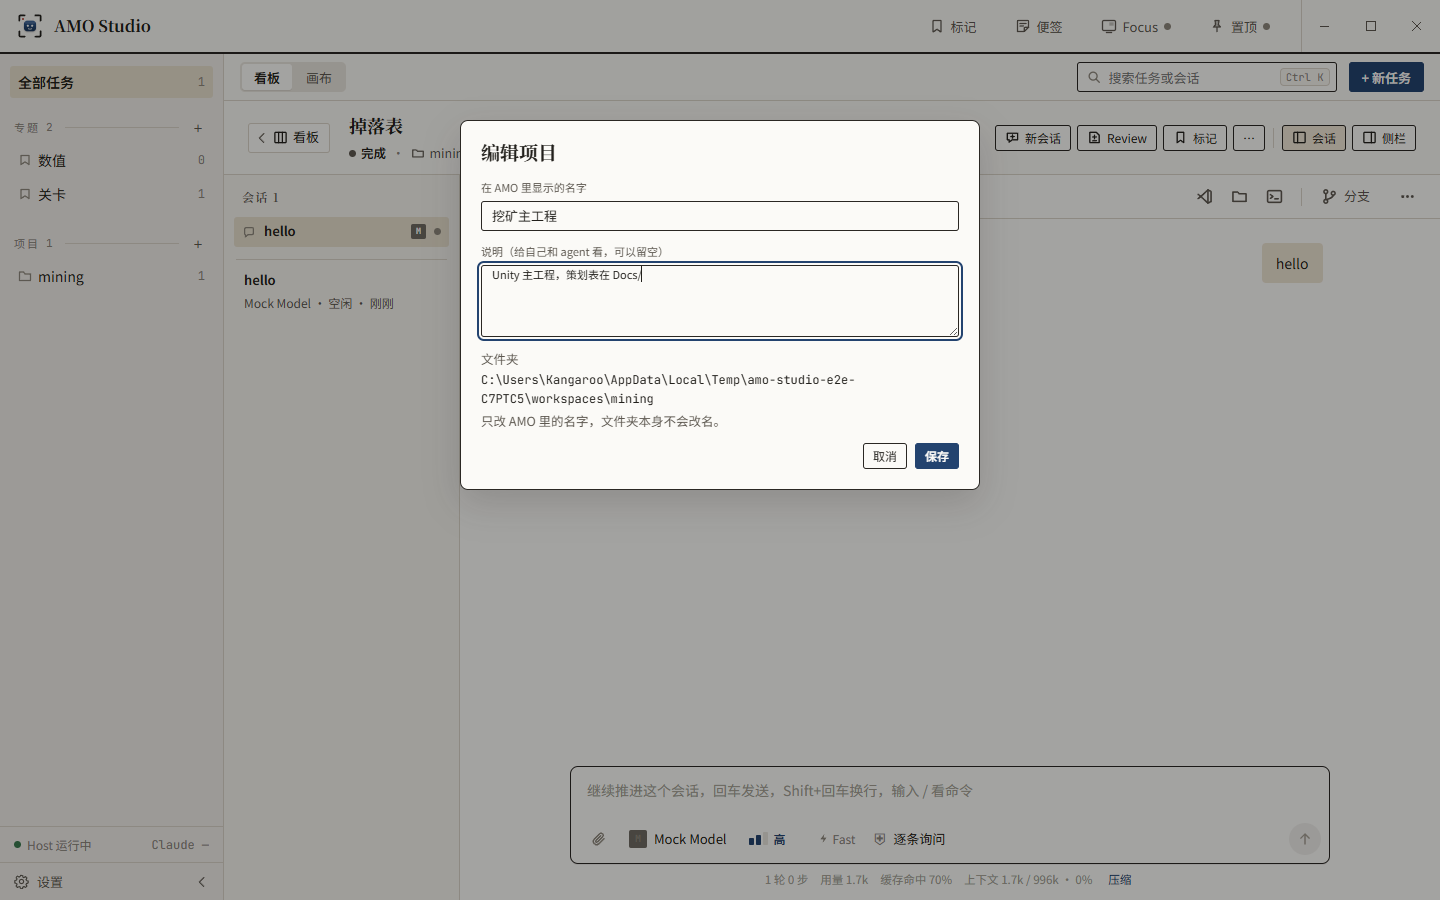
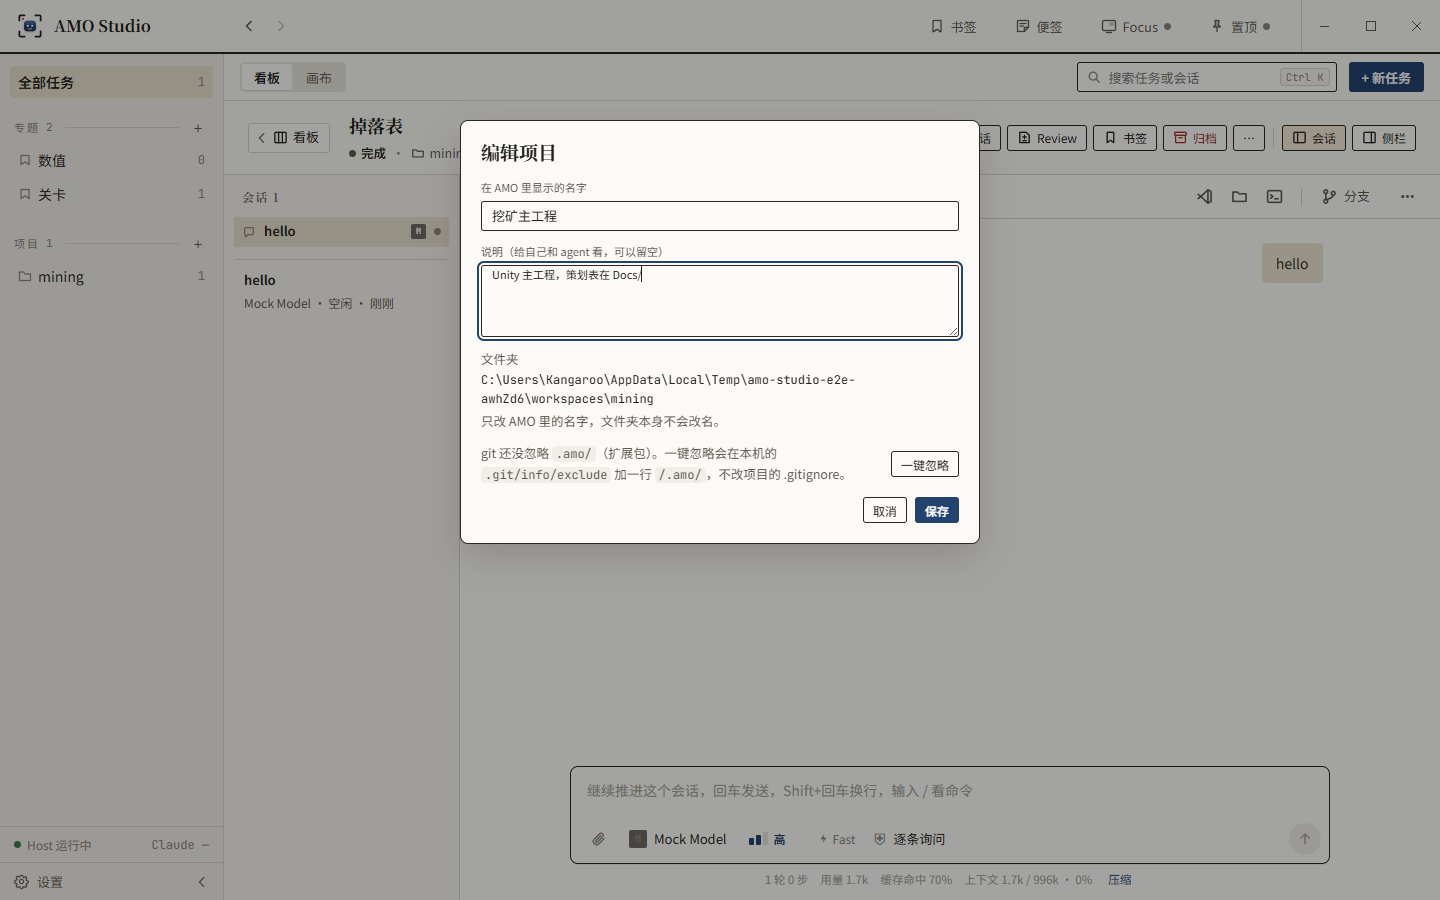
feat(studio): 一键忽略 .amo/ — a project's extension packs left out of git by one line in .git/info/exclude
编辑项目 and the 扩展包 page show whether git ignores the project's .amo/ (and by which rule) and add `/.amo/`
(`/<sub>/.amo/` for a project inside a larger repository) to the repository's own exclude file, which stays on this
machine; the project's .gitignore is not touched. A worktree uses its repository's exclude file; files under .amo/
that git already tracks are counted, since ignoring does not apply to them.

GET / POST /api/workspaces/:id/git-exclude; host features/projects/git-exclude.ts with tests; e2e in task-head.spec;
design/pack-format.md says how to ignore or share packs.

Changed region(s): [[0.3125, 0.4667, 0.6875, 0.6222], [0.6875, 0.1244, 0.7812, 0.1867], [0.8125, 0.1244, 0.8438, 0.1556]]

diff --git a/studio/packages/host/src/features/projects/git-exclude.test.ts b/studio/packages/host/src/features/projects/git-exclude.test.ts
@@ -1,0 +1,71 @@
+import { execFileSync } from "node:child_process";
+import { mkdirSync, mkdtempSync, readFileSync, writeFileSync } from "node:fs";
+import { tmpdir } from "node:os";
+import { join } from "node:path";
+import { afterEach, beforeEach, describe, expect, it } from "vitest";
+import { removeTempDir } from "@amo-studio/testkit";
+import { addGitExclude, readGitExclude } from "./git-exclude.js";
+
+// 一键忽略 .amo/ (2026-10-23): a project's extension packs left out of git by one line in .git/info/exclude.
+
+let root: string;
+const git = (cwd: string, ...args: string[]) => execFileSync("git", ["-c", "user.name=AMO Test", "-c", "user.email=amo@test.invalid", "-c", "commit.gpgsign=false", ...args], { cwd, encoding: "utf8", windowsHide: true });
+const exclude = (repo: string) => readFileSync(join(repo, ".git", "info", "exclude"), "utf8");
+
+beforeEach(() => {
+  root = mkdtempSync(join(tmpdir(), "amo-studio-test-exclude-"));
+});
+
+afterEach(() => removeTempDir(root));
+
+describe("git exclude of .amo/", () => {
+  it("adds /.amo/ once to the repository's exclude file, then reads it as excluded", async () => {
+    const repo = join(root, "game");
+    mkdirSync(repo);
+    git(repo, "init", "-q");
+    expect(await readGitExclude(repo)).toEqual({ git: true, excluded: false, source: null, entry: "/.amo/", tracked: 0 });
+
+    const after = await addGitExclude(repo);
+    expect(after).toMatchObject({ excluded: true, entry: "/.amo/" });
+    expect(after.source).toMatch(/info[\\/]exclude:\d+$/);
+    expect(exclude(repo)).toMatch(/# AMO Studio[^\n]*\n\/\.amo\/\n$/);
+
+    await addGitExclude(repo);
+    expect(exclude(repo).match(/\/\.amo\//g)).toHaveLength(1);
+    // git really leaves the packs out.
+    mkdirSync(join(repo, ".amo", "packs", "demo"), { recursive: true });
+    writeFileSync(join(repo, ".amo", "packs", "demo", "pack.json"), "{}");
+    expect(git(repo, "status", "--porcelain")).toBe("");
+  });
+
+  it("a project inside a larger repository gets its own sub path; a .gitignore rule counts as excluded", async () => {
+    const repo = join(root, "mono");
+    const sub = join(repo, "tools", "game");
+    mkdirSync(sub, { recursive: true });
+    git(repo, "init", "-q");
+    expect((await readGitExclude(sub)).entry).toBe("/tools/game/.amo/");
+    expect((await addGitExclude(sub)).excluded).toBe(true);
+    expect(exclude(repo)).toContain("/tools/game/.amo/\n");
+
+    const other = join(root, "other");
+    mkdirSync(other);
+    git(other, "init", "-q");
+    writeFileSync(join(other, ".gitignore"), "node_modules/\n.amo/\n");
+    const state = await addGitExclude(other);
+    expect(state).toMatchObject({ excluded: true, source: ".gitignore:2" });
+    expect(exclude(other)).not.toContain(".amo");
+  });
+
+  it("counts tracked files under .amo/, and says when the folder is not in git", async () => {
+    const repo = join(root, "shared");
+    mkdirSync(join(repo, ".amo", "packs"), { recursive: true });
+    git(repo, "init", "-q");
+    writeFileSync(join(repo, ".amo", "packs", "README.md"), "team packs\n");
+    git(repo, "add", ".");
+    expect((await readGitExclude(repo)).tracked).toBe(1);
+
+    const plain = join(root, "plain");
+    mkdirSync(plain);
+    expect(await addGitExclude(plain)).toMatchObject({ git: false, excluded: false });
+  });
+});

diff --git a/studio/packages/host/src/features/projects/git-exclude.ts b/studio/packages/host/src/features/projects/git-exclude.ts
@@ -1,0 +1,50 @@
+import { execFile } from "node:child_process";
+import { appendFileSync, existsSync, mkdirSync, readFileSync } from "node:fs";
+import { dirname, resolve } from "node:path";
+import type { GitExcludeState } from "@amo-studio/protocol";
+import { PACKS_DIR } from "@amo-studio/protocol";
+
+// The project's `.amo/` (extension packs, 2026-10-23) left out of git without touching the project's own .gitignore:
+// one line in the repository's `.git/info/exclude`, which stays on this machine. A worktree shares its repository's
+// exclude file (`git rev-parse --git-path`); a project inside a larger repository gets a line with its own sub path.
+
+const AMO_DIR = PACKS_DIR.split("/")[0]!;
+const COMMENT = "# AMO Studio: the project's .amo/ (extension packs)";
+
+/** git's exit code and stdout; no shell, a timeout, prompts off. */
+function run(cwd: string, args: readonly string[]): Promise<{ code: number; out: string }> {
+  return new Promise((done) => {
+    execFile("git", args, { cwd, timeout: 15_000, windowsHide: true, encoding: "utf8", env: { ...process.env, GIT_OPTIONAL_LOCKS: "0", GIT_TERMINAL_PROMPT: "0" } }, (err, stdout) => {
+      const code = err ? (typeof (err as { code?: unknown }).code === "number" ? ((err as { code: number }).code) : -1) : 0;
+      done({ code, out: String(stdout ?? "") });
+    });
+  });
+}
+
+/** Whether git leaves `.amo/` of the folder out, and by which rule. */
+export async function readGitExclude(folder: string): Promise<GitExcludeState> {
+  const top = await run(folder, ["rev-parse", "--show-prefix"]);
+  if (top.code !== 0) return { git: false, excluded: false, source: null, entry: `/${AMO_DIR}/`, tracked: 0 };
+  const entry = `/${top.out.trim()}${AMO_DIR}/`;
+  // --no-index: the rule counts even when files under .amo/ are tracked (they are counted apart).
+  const check = await run(folder, ["check-ignore", "-v", "--no-index", `${AMO_DIR}/`]);
+  const [rule = "", pattern = ""] = /^(.*?:\d+):(.*)\t/.exec(check.out)?.slice(1) ?? [];
+  // -v also prints a matching negation (`!…`), which keeps it in.
+  const excluded = check.code === 0 && !!rule && !pattern.startsWith("!");
+  const tracked = await run(folder, ["ls-files", "--", `${AMO_DIR}/`]);
+  return { git: true, excluded, source: excluded ? rule : null, entry, tracked: tracked.out.split("\n").filter(Boolean).length };
+}
+
+/** Adds the folder's `.amo/` to its repository's `.git/info/exclude` unless git leaves it out already. */
+export async function addGitExclude(folder: string): Promise<GitExcludeState> {
+  const state = await readGitExclude(folder);
+  if (!state.git || state.excluded) return state;
+  const where = await run(folder, ["rev-parse", "--git-path", "info/exclude"]);
+  if (where.code !== 0 || !where.out.trim()) throw new Error("找不到这个仓库的 .git/info/exclude");
+  const file = resolve(folder, where.out.trim());
+  mkdirSync(dirname(file), { recursive: true });
+  const before = existsSync(file) ? readFileSync(file, "utf8") : "";
+  const eol = before.includes("\r\n") ? "\r\n" : "\n";
+  appendFileSync(file, `${before && !before.endsWith("\n") ? eol : ""}${COMMENT}${eol}${state.entry}${eol}`);
+  return readGitExclude(folder);
+}

diff --git a/studio/packages/ui/src/packs/GitExcludeRow.tsx b/studio/packages/ui/src/packs/GitExcludeRow.tsx
@@ -1,0 +1,62 @@
+import { useEffect, useState } from "react";
+import type { GitExcludeState, Workspace } from "@amo-studio/protocol";
+import { call, HostApiError, type HostLink } from "../host/client.js";
+
+/**
+ * 一键忽略 .amo/ (2026-10-23): the project's `.amo/` (extension packs) left out of git by one line in the repository's
+ * `.git/info/exclude`, which stays on this machine; the project's .gitignore is not touched. Shown in 编辑项目 and on
+ * the 扩展包 page; nothing when the folder is not in git (`quietWhenDone` also hides it once git ignores `.amo/`).
+ */
+export function GitExcludeRow({ link, workspace, quietWhenDone = false }: { link: HostLink; workspace: Workspace; quietWhenDone?: boolean }) {
+  const [state, setState] = useState<GitExcludeState | null>(null);
+  const [busy, setBusy] = useState(false);
+  const [error, setError] = useState("");
+
+  useEffect(() => {
+    let live = true;
+    call(link, "GET /api/workspaces/:id/git-exclude", { id: workspace.id })
+      .then((s) => live && setState(s))
+      .catch(() => live && setState(null));
+    return () => {
+      live = false;
+    };
+  }, [link, workspace.id]);
+
+  async function add() {
+    setBusy(true);
+    setError("");
+    try {
+      setState(await call(link, "POST /api/workspaces/:id/git-exclude", { id: workspace.id }));
+    } catch (err) {
+      setError(err instanceof HostApiError ? err.message : String(err));
+    } finally {
+      setBusy(false);
+    }
+  }
+
+  if (!state?.git || (quietWhenDone && state.excluded && !state.tracked)) return null;
+  return (
+    <div className="git-exclude" data-testid="git-exclude">
+      {state.excluded ? (
+        <span className="settings-hint" data-testid="git-exclude-done">
+          git 已忽略 <code>.amo/</code>（{state.source}）
+        </span>
+      ) : (
+        <div className="git-exclude-row">
+          <span className="settings-hint">
+            git 还没忽略 <code>.amo/</code>（扩展包）。一键忽略会在本机的 <code>.git/info/exclude</code> 加一行 <code>{state.entry}</code>，不改项目的 .gitignore。
+          </span>
+          <button type="button" className="btn-ghost small" onClick={() => void add()} disabled={busy} data-testid="git-exclude-add">
+            一键忽略
+          </button>
+        </div>
+      )}
+      {state.tracked > 0 && <span className="settings-hint">.amo/ 下已有 {state.tracked} 个文件被 git 跟踪，忽略对它们不起作用。</span>}
+      {error && (
+        <span className="form-error" role="alert">
+          {error}
+        </span>
+      )}
+    </div>
+  );
+}

diff --git a/studio/packages/protocol/src/api.ts b/studio/packages/protocol/src/api.ts
@@ -277,6 +277,20 @@ export interface CredentialStatus {
   writable: boolean;
 }
 
+/** Whether git leaves a project's `.amo/` (its extension packs) out: by `.git/info/exclude`, a .gitignore or the global one. */
+export interface GitExcludeState {
+  /** The folder is in a git repository. */
+  git: boolean;
+  /** git ignores `.amo/` already. */
+  excluded: boolean;
+  /** The rule that does, as git names it (`.git/info/exclude:12`, `.gitignore:3`). */
+  source: string | null;
+  /** The line 一键忽略 adds to `.git/info/exclude`: `/.amo/`, or `/<sub>/.amo/` for a project inside a larger repository. */
+  entry: string;
+  /** Files under `.amo/` git tracks already; ignoring does not apply to them. */
+  tracked: number;
+}
+
 /** Every REST route as `"METHOD /path"` with its request body and response. `:id` segments are path params. */
 export interface HostRoutes {
   "GET /api/state": { req: void; res: StateSnapshot };
@@ -288,6 +302,10 @@ export interface HostRoutes {
   "POST /api/workspaces/:id/archive": { req: void; res: { workspace: Workspace; tasks: Task[] } };
   /** Restores the project and the tasks that were archived with it. */
   "POST /api/workspaces/:id/unarchive": { req: void; res: { workspace: Workspace; tasks: Task[] } };
+  /** Whether git leaves the project's `.amo/` out. */
+  "GET /api/workspaces/:id/git-exclude": { req: void; res: GitExcludeState };
+  /** Adds `.amo/` to the repository's `.git/info/exclude` (this machine only; the project's .gitignore is not touched). */
+  "POST /api/workspaces/:id/git-exclude": { req: void; res: GitExcludeState };
   "GET /api/settings": { req: void; res: StudioSettings };
   /** The DSH clone DeepSeek · DSH sessions use (stage 17). */
   "GET /api/dsh": { req: void; res: DshStatus };

diff --git a/studio/packages/host/src/features/projects/service.ts b/studio/packages/host/src/features/projects/service.ts
@@ -1,9 +1,10 @@
 import { existsSync, statSync } from "node:fs";
 import { basename, resolve } from "node:path";
-import type { CanvasDoc, Id, Task, Workspace } from "@amo-studio/protocol";
+import type { CanvasDoc, GitExcludeState, Id, Task, Workspace } from "@amo-studio/protocol";
 import { isCommon } from "@amo-studio/protocol";
 import { HostError } from "../../core/shared.js";
 import { Feature } from "../../core/feature.js";
+import { addGitExclude, readGitExclude } from "./git-exclude.js";
 
 /** Projects (workspaces): registering, archiving and removing them. */
 export class ProjectsFeature extends Feature {
@@ -70,6 +71,20 @@ export class ProjectsFeature extends Feature {
     const topicSessions = this.store.listSessions().filter((s) => s.topicId && s.workspaceId === id && !this.store.getTopic(s.topicId)?.archivedAt);
     await this.f.tasks.unarchiveSessions(topicSessions, since);
     return { workspace: this.store.getWorkspace(id)!, tasks };
+  }
+
+  /** Whether git leaves the project's `.amo/` (extension packs) out. */
+  gitExclude(id: Id): Promise<GitExcludeState> {
+    return readGitExclude(this.requireWorkspace(id).path);
+  }
+
+  /** 一键忽略 .amo/: one line in the repository's `.git/info/exclude`, unless git leaves it out already. */
+  async addGitExclude(id: Id): Promise<GitExcludeState> {
+    const ws = this.requireWorkspace(id);
+    if (isCommon(ws)) throw new HostError("conflict", "the common space has no git settings here");
+    const state = await addGitExclude(ws.path);
+    if (!state.git) throw new HostError("bad_request", "这个文件夹不在 git 仓库里");
+    return state;
   }
 
   removeWorkspace(id: Id): void {

diff --git a/studio/e2e/studio/task-head.spec.ts b/studio/e2e/studio/task-head.spec.ts
@@ -1,5 +1,5 @@
 import { execFileSync } from "node:child_process";
-import { writeFileSync } from "node:fs";
+import { readFileSync, writeFileSync } from "node:fs";
 import { join } from "node:path";
 import { expect, test } from "@playwright/test";
 import type { StateSnapshot, Task, Topic, Workspace } from "@amo-studio/protocol";
@@ -68,7 +68,12 @@ test("status, topic and project from the line under the title; the right column 
   const edit = page.getByTestId("edit-project");
   await edit.getByTestId("edit-project-name").fill("挖矿主工程");
   await edit.getByTestId("edit-project-description").fill("Unity 主工程，策划表在 Docs/");
+  // 一键忽略 .amo/ (2026-10-23): one line in the repository's own .git/info/exclude.
+  await expect(edit.getByTestId("git-exclude-add")).toBeVisible();
   await screenshot(app, "stage-14", "S14-E-edit-project", page);
+  await edit.getByTestId("git-exclude-add").click();
+  await expect(edit.getByTestId("git-exclude-done")).toContainText(/info[\\/]exclude:\d+/);
+  expect(readFileSync(join(dir, ".git", "info", "exclude"), "utf8")).toMatch(/\n\/\.amo\/\n$/);
   await edit.getByTestId("edit-project-save").click();
   await expect(page.getByTestId("task-project")).toHaveText("挖矿主工程");
   await expect(page.getByTestId("scope-ws-挖矿主工程")).toBeVisible();

diff --git a/studio/packages/ui/src/settings/settings.css b/studio/packages/ui/src/settings/settings.css
@@ -86,6 +86,12 @@
 .edit-project textarea.field { resize: vertical; min-height: 72px; font: inherit; line-height: var(--lh); }
 .edit-project-folder { display: flex; flex-direction: column; gap: 2px; }
 .edit-project-folder code { font-family: var(--font-code); font-size: 12px; overflow-wrap: anywhere; }
+/* 一键忽略 .amo/ (2026-10-23): in 编辑项目 and on the 扩展包 page. */
+.git-exclude { display: flex; flex-direction: column; gap: 4px; }
+.git-exclude-row { display: flex; align-items: center; gap: 10px; }
+.git-exclude-row .settings-hint { flex: 1; }
+.git-exclude code { font-family: var(--font-code); font-size: 12px; overflow-wrap: anywhere; }
+.packs > .git-exclude { padding: 0 0 10px; }
 
 /* 设置 → 模型 → 渠道 (2026-10-15): one card per channel; the extra part (Claude's sign-in) under a hairline. */
 /* S18: 设置 → 模型 — the channels on the left, the chosen one's page on the right; each side scrolls on its own. */

diff --git a/studio/packages/ui/src/board/EditProjectDialog.tsx b/studio/packages/ui/src/board/EditProjectDialog.tsx
@@ -2,6 +2,7 @@ import { useEffect, useRef, useState } from "react";
 import { createPortal } from "react-dom";
 import type { Workspace } from "@amo-studio/protocol";
 import { call, HostApiError, type HostLink } from "../host/client.js";
+import { GitExcludeRow } from "../packs/GitExcludeRow.js";
 
 /**
  * 编辑项目 (2026-10-14): the name a project has in Studio (two folders with the same name can be told apart; the folder
@@ -81,6 +82,7 @@ export function EditProjectDialog({ link, workspace, onClose }: { link: HostLink
           <code>{workspace.path}</code>
           <span className="settings-hint">只改 AMO 里的名字，文件夹本身不会改名。</span>
         </div>
+        <GitExcludeRow link={link} workspace={workspace} />
         {error && (
           <span className="form-error" role="alert">
             {error}

diff --git a/studio/packages/ui/src/packs/PacksPage.tsx b/studio/packages/ui/src/packs/PacksPage.tsx
@@ -2,6 +2,7 @@ import { useState } from "react";
 import type { ModelProfile, WorkspacePack, Workspace } from "@amo-studio/protocol";
 import type { HostLink } from "../host/client.js";
 import { Markdown } from "../lib/markdown.js";
+import { GitExcludeRow } from "./GitExcludeRow.js";
 import { usePackDoc, usePacks } from "./usePacks.js";
 
 /**
@@ -24,6 +25,7 @@ export function PacksPage({ link, workspace, profiles }: { link: HostLink; works
           重新加载
         </button>
       </div>
+      <GitExcludeRow link={link} workspace={workspace} quietWhenDone />
       {error && <div className="banner">{error}</div>}
       {!loading && !packs.length && !error && (
         <div className="placeholder" data-testid="packs-empty">

diff --git a/studio/packages/host/src/features/projects/routes.ts b/studio/packages/host/src/features/projects/routes.ts
@@ -12,5 +12,7 @@ export function projectsRoutes(service: HostService): Route[] {
     route("PATCH", "/api/workspaces/:id", ({ params, body }) => service.projects.updateWorkspace(params.id!, obj(body))),
     route("POST", "/api/workspaces/:id/archive", ({ params }) => service.projects.archiveWorkspace(params.id!)),
     route("POST", "/api/workspaces/:id/unarchive", ({ params }) => service.projects.unarchiveWorkspace(params.id!)),
+    route("GET", "/api/workspaces/:id/git-exclude", ({ params }) => service.projects.gitExclude(params.id!)),
+    route("POST", "/api/workspaces/:id/git-exclude", ({ params }) => service.projects.addGitExclude(params.id!)),
   ];
 }

diff --git a/studio/design/pack-format.md b/studio/design/pack-format.md
@@ -54,6 +54,8 @@
 - 启动预设只会预填新会话表单，由人确认后才发给模型。
 - 未知的顶层字段给出警告并忽略；其他错误会让这个扩展包显示为"有错误"，不影响同一工作区的其他扩展包。
 
-## 注意：旧 AMO 的 Git exclude
+## 让 git 忽略 `.amo/`
 
-旧 AMO 的"Git exclude"会把 `.amo/` 写进工程的 `.git/info/exclude`。做过这一步的工程里，`.amo/packs/` 默认不会进提交：要提交扩展包，就从 `.git/info/exclude` 删掉 `.amo/` 那一行（或改成 `.amo/*` 加 `!.amo/packs/`），或者用 `git add -f .amo/packs`。
+扩展包只在本机用、不想进项目提交时，在「编辑项目」（左栏项目右键）或项目的「扩展包」页点 **一键忽略**。这会在仓库的 `.git/info/exclude` 里加一行 `/.amo/`；如果项目是更大仓库里的子文件夹，这一行是 `/<子路径>/.amo/`。exclude 只在本机生效，不改项目的 `.gitignore`。git 已经忽略 `.amo/` 时，这里只显示是哪条规则在忽略。
+
+想把扩展包提交给团队，就别点一键忽略。如果 `.git/info/exclude` 里已经有 `.amo/` 那一行（旧 AMO 部署也会写这一行），可以删掉它，或者改成 `.amo/*` 加 `!.amo/packs/`，也可以直接 `git add -f .amo/packs`。已经被 git 跟踪的文件不受忽略影响，页面上会显示有几个。
